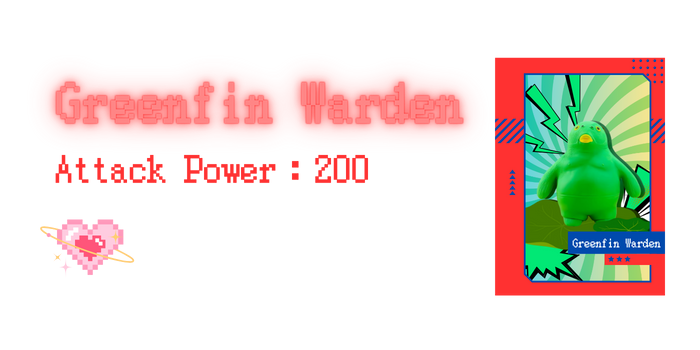
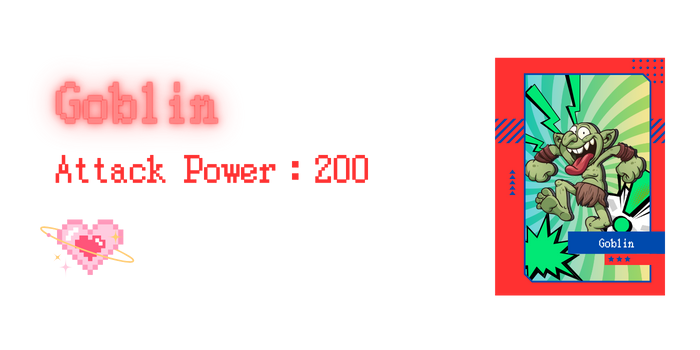
assets

Changed region(s): [[0.12, 0.2, 0.69, 0.4], [0.75, 0.3429, 0.96, 0.7143]]

diff --git a/main_test_cindy_oh.py b/main_test_cindy_oh.py
@@ -67,7 +67,7 @@ def InitGame():
         Monster("Tennis Phantom", 3000, 3000, 200, (WIDTH - 500, HEIGHT - 400), "assets/monster4.png", "assets/fireball4.png", "assets/monster4_state.png", "assets/transition_4.png", "assets/monster4_damage.png", "assets/gameover_4.png"),
         Monster("Basketball Ace", 5000, 5000, 250, (WIDTH - 500, HEIGHT - 400), "assets/monster5.png", "assets/fireball5.png", "assets/monster5_state.png", "assets/transition_5.png", "assets/monster5_damage.png", "assets/gameover_5.png"),
         Monster("Banana Bomber", 4000, 4000, 200, (WIDTH - 500, HEIGHT - 400), "assets/monster6.png", "assets/fireball6.png", "assets/monster6_state.png", "assets/transition_6.png", "assets/monster6_damage.png", "assets/gameover_6.png"),
-        Monster("Greenfin Warden", 4000, 4000, 200, (WIDTH - 500, HEIGHT - 400), "assets/monster7.png", "assets/fireball7.png", "assets/monster7_state.png", "assets/transition_7.png", "assets/monster7_damage.png", "assets/gameover_7.png"),
+        Monster("Goblin", 4000, 4000, 200, (WIDTH - 500, HEIGHT - 400), "assets/monster7.png", "assets/fireball7.png", "assets/monster7_state.png", "assets/transition_7.png", "assets/monster7_damage.png", "assets/gameover_7.png"),
         Monster("Blood Drainer", 7000, 7000, 300, (WIDTH - 500, HEIGHT - 400), "assets/monster8.png", "assets/fireball8.png", "assets/monster8_state.png", "assets/transition_8.png", "assets/monster8_damage.png", "assets/gameover_8.png"),
         Monster("Storm Sovereign", 10000, 10000, 400, (WIDTH - 500, HEIGHT - 400), "assets/monster9.png", "assets/fireball9.png", "assets/monster9_state.png", "assets/transition_9.png", "assets/monster9_damage.png", "assets/gameover_9.png"),
     ]
